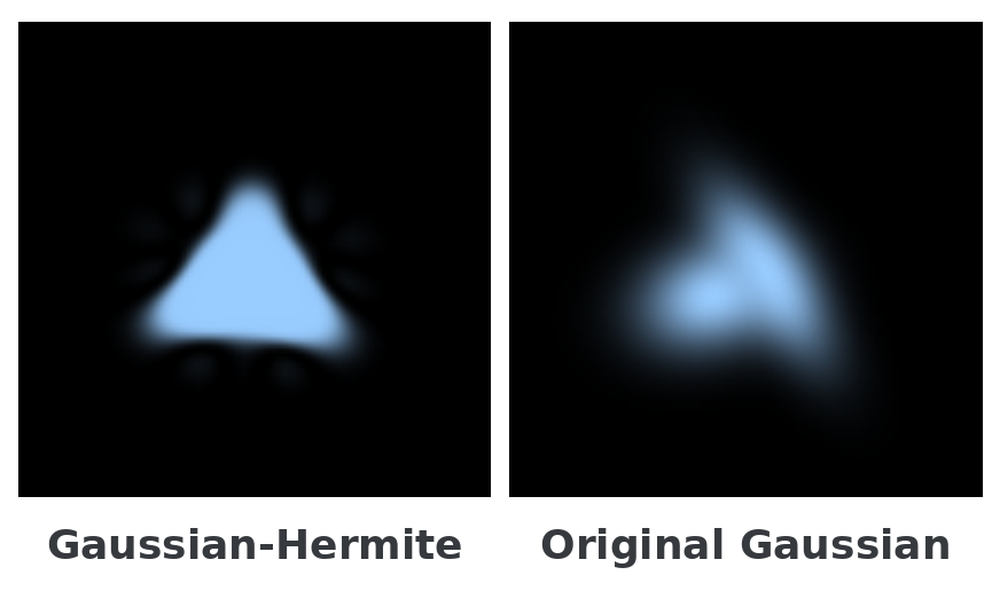
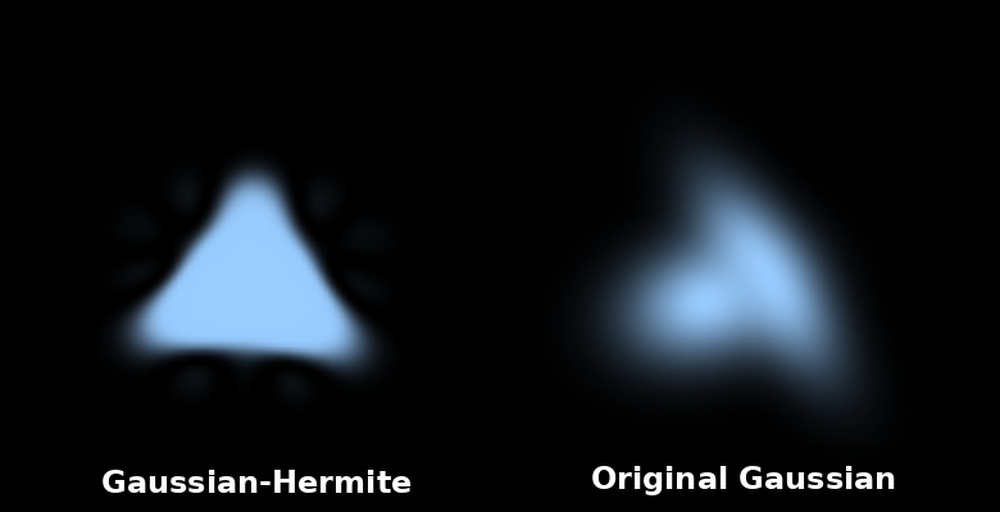
2DGH: 2:1 thumb, trim results, add (m,n) basis explorer
- Homepage thumbnail rebuilt as a strict 2:1 composition (two 380x380
  square panels from figs/toy.pdf with the dark side margins cropped in,
  white "Gaussian-Hermite" / "Original Gaussian" labels overlaid at the
  bottom of each panel).
- Results section narrowed to the two most informative figures
  (MipNeRF360 NVS, Detail-set NVS + error); normal and DTU dropped.
- New basis-pattern explorer after the Triangle Fitting Toy:
  square canvas + slim diverging colorbar (deep petrol -> cream -> brick
  rust, matched to the site palette), two integer sliders for m and n,
  live ψ_{m,n}(x,y) = H_m(x)·H_n(y)·exp(-(x²+y²)/2). Per-pattern
  normalisation keeps the colour scale at -1...+1.

diff --git a/2dgh/index.html b/2dgh/index.html
@@ -19,6 +19,78 @@ sitemap: false
     .teaser__media { aspect-ratio: 1878 / 837; background:#f4efe9; border-radius:8px; overflow:hidden; }
     .teaser__media img { width:100%; height:100%; object-fit: contain; }
     .figgrid img { background:#fff; }
+
+    /* ---- (m,n) basis pattern explorer ----------------------------------- */
+    .basis {
+      max-width: 50rem; margin: 0 auto;
+      background: #fff; border: 1px solid rgba(75,51,38,0.10);
+      border-radius: 12px; padding: 1.4rem 1.6rem 1.6rem;
+      box-shadow: 0 2px 12px rgba(75,51,38,0.05);
+    }
+    .basis__title { font-family: var(--font-serif); font-weight:700; font-size:1.05rem; margin-bottom:0.25rem; }
+    .basis__formula {
+      font-size: 0.9rem; color: var(--color-muted); margin-bottom: 1rem;
+      font-style: italic;
+    }
+    .basis__stage {
+      display: grid;
+      grid-template-columns: 1fr 56px;
+      gap: 16px;
+      align-items: stretch;
+    }
+    .basis__canvas-wrap {
+      position: relative;
+      aspect-ratio: 1 / 1;
+      background: #111;
+      border-radius: 6px;
+      overflow: hidden;
+      box-shadow: inset 0 0 0 1px rgba(75,51,38,0.10);
+    }
+    .basis__canvas-wrap canvas { width:100%; height:100%; display:block; image-rendering: auto; }
+    .basis__axis-label {
+      position: absolute; left: 8px; top: 8px;
+      font-family: var(--font-serif); font-style: italic;
+      font-size: 0.95rem; color: rgba(255,255,255,0.85);
+      letter-spacing: 0.02em;
+    }
+    .basis__cbar {
+      position: relative;
+      display: grid; grid-template-rows: 1fr;
+    }
+    .basis__cbar canvas {
+      width: 22px; height: 100%;
+      border-radius: 4px;
+      box-shadow: inset 0 0 0 1px rgba(75,51,38,0.12);
+      display: block;
+    }
+    .basis__cbar-ticks {
+      position: absolute; left: 30px; top: 0; bottom: 0;
+      display: flex; flex-direction: column; justify-content: space-between;
+      font-family: var(--font-mono); font-size: 0.72rem; color: var(--color-muted);
+      pointer-events: none;
+    }
+    .basis__cbar-ticks span { line-height: 1; }
+    .basis__controls {
+      display: grid; grid-template-columns: 1fr 1fr; gap: 1rem 1.5rem;
+      margin-top: 1.1rem; align-items: center; font-size: 0.92rem;
+    }
+    .basis__controls .ctl { display: flex; align-items: center; gap: 0.6rem; }
+    .basis__controls .ctl span.lbl {
+      font-family: var(--font-serif); font-style: italic;
+      color: var(--color-heading); font-size: 1rem; width: 1.4rem;
+    }
+    .basis__controls .ctl span.val {
+      font-family: var(--font-mono); color: var(--color-accent);
+      font-weight: 700; min-width: 1rem;
+    }
+    .basis__controls input[type=range] { flex: 1; accent-color: var(--color-accent); }
+    .basis__caption {
+      margin-top: 0.9rem; font-size: 0.85rem; color: var(--color-muted);
+      text-align: center; font-style: italic;
+    }
+    @media (max-width: 560px) {
+      .basis__controls { grid-template-columns: 1fr; }
+    }
   </style>
 </head>
 <body>
@@ -123,6 +195,54 @@ sitemap: false
           </figcaption>
         </figure>
       </div>
+
+      <div class="prose" style="margin: 2.5rem auto 1.4rem;">
+        <p>
+          Where does that extra representational power come from? The Gaussian-Hermite primitive is
+          the Gaussian multiplied by a 2D Hermite polynomial of rank <em>(m,&nbsp;n)</em>. Slide
+          <em>m</em> and <em>n</em> below to watch the basis pattern unfold &mdash; new lobes appear
+          along each axis, alternating in sign.
+        </p>
+      </div>
+
+      <div class="basis" id="basis">
+        <div class="basis__title">Gaussian-Hermite basis  <span style="color:var(--color-muted);font-weight:400;">&nbsp;ψ<sub>m,n</sub>(x,&thinsp;y)</span></div>
+        <div class="basis__formula">ψ<sub>m,n</sub>(x,&thinsp;y) &nbsp;=&nbsp; H<sub>m</sub>(x) &middot; H<sub>n</sub>(y) &middot; exp(−(x² + y²) / 2)</div>
+
+        <div class="basis__stage">
+          <div class="basis__canvas-wrap">
+            <canvas id="basisCanvas" width="384" height="384"></canvas>
+            <span class="basis__axis-label" id="basisLabel">ψ<sub>0,0</sub></span>
+          </div>
+          <div class="basis__cbar">
+            <canvas id="basisCbar" width="22" height="384"></canvas>
+            <div class="basis__cbar-ticks">
+              <span>+1</span>
+              <span>0</span>
+              <span>−1</span>
+            </div>
+          </div>
+        </div>
+
+        <div class="basis__controls">
+          <label class="ctl">
+            <span class="lbl">m</span>
+            <input type="range" id="mRng" min="0" max="5" step="1" value="0">
+            <span class="val" id="mVal">0</span>
+          </label>
+          <label class="ctl">
+            <span class="lbl">n</span>
+            <input type="range" id="nRng" min="0" max="5" step="1" value="0">
+            <span class="val" id="nVal">0</span>
+          </label>
+        </div>
+
+        <p class="basis__caption">
+          Values are normalised per pattern so the colour scale always spans &minus;1 &hellip; &plus;1.
+          Rank&nbsp;(0,&thinsp;0) recovers the plain Gaussian; higher rank adds oscillating
+          lobes that let the primitive carve sharper, more anisotropic shapes.
+        </p>
+      </div>
     </section>
 
     <section id="results" class="sect sect--frag-inner">
@@ -152,22 +272,6 @@ sitemap: false
             per-pixel error against ground truth. 2DGH has noticeably less residual energy on edges.
           </figcaption>
         </figure>
-        <figure>
-          <img src="{{ '/2dgh/static/images/normal.png' | relative_url }}"
-               alt="Normal-map comparison on MipNeRF360 bonsai and garden">
-          <figcaption>
-            Surface normals on <em>bonsai</em> and <em>garden</em> &mdash; sharper edges translate to
-            cleaner normal maps without rolling-off the silhouette.
-          </figcaption>
-        </figure>
-        <figure>
-          <img src="{{ '/2dgh/static/images/dtu.png' | relative_url }}"
-               alt="DTU geometry reconstruction error">
-          <figcaption>
-            DTU geometry reconstruction error (lower is better) &mdash; consistent improvements on
-            thin-structure regions across multiple scans.
-          </figcaption>
-        </figure>
       </div>
     </section>
 
@@ -189,6 +293,128 @@ sitemap: false
   <footer class="site-footer">
     <p>&copy; 2025 Ruihan Yu &nbsp;&middot;&nbsp; <a href="{{ '/' | relative_url }}">Back to homepage</a></p>
   </footer>
+
+  <script>
+    (function () {
+      // ---- Physicists' Hermite polynomials via recurrence ----------------
+      function H(n, x) {
+        if (n === 0) return 1;
+        if (n === 1) return 2 * x;
+        let h0 = 1, h1 = 2 * x;
+        for (let k = 1; k < n; k++) {
+          const h2 = 2 * x * h1 - 2 * k * h0;
+          h0 = h1; h1 = h2;
+        }
+        return h1;
+      }
+      function psi(m, n, x, y) {
+        return H(m, x) * H(n, y) * Math.exp(-(x * x + y * y) / 2);
+      }
+
+      // ---- Diverging colormap: deep teal -> cream -> warm rust ----------
+      // Anchors hand-tuned for a calm, paper-figure palette (perceptual feel,
+      // not perceptually uniform — we lean on the brand palette).
+      const STOPS = [
+        { t: -1.00, c: [ 31,  61,  93] },  // deep petrol
+        { t: -0.65, c: [ 79, 122, 156] },
+        { t: -0.30, c: [173, 197, 213] },
+        { t:  0.00, c: [248, 244, 236] },  // cream (matches site frag-l)
+        { t:  0.30, c: [221, 178, 138] },
+        { t:  0.65, c: [180, 102,  64] },
+        { t:  1.00, c: [126,  50,  38] },  // brick rust
+      ];
+      function cmap(t) {
+        if (t <= STOPS[0].t) return STOPS[0].c;
+        for (let i = 0; i < STOPS.length - 1; i++) {
+          const a = STOPS[i], b = STOPS[i + 1];
+          if (t <= b.t) {
+            const u = (t - a.t) / (b.t - a.t);
+            return [
+              Math.round(a.c[0] * (1 - u) + b.c[0] * u),
+              Math.round(a.c[1] * (1 - u) + b.c[1] * u),
+              Math.round(a.c[2] * (1 - u) + b.c[2] * u),
+            ];
+          }
+        }
+        return STOPS[STOPS.length - 1].c;
+      }
+
+      // ---- DOM refs ------------------------------------------------------
+      const canvas = document.getElementById('basisCanvas');
+      const cbar   = document.getElementById('basisCbar');
+      const mRng   = document.getElementById('mRng');
+      const nRng   = document.getElementById('nRng');
+      const mVal   = document.getElementById('mVal');
+      const nVal   = document.getElementById('nVal');
+      const label  = document.getElementById('basisLabel');
+
+      // ---- Render the colorbar once -------------------------------------
+      (function drawCbar() {
+        const ctx = cbar.getContext('2d');
+        const W = cbar.width, Hb = cbar.height;
+        const img = ctx.createImageData(W, Hb);
+        for (let j = 0; j < Hb; j++) {
+          // Top = +1, bottom = -1
+          const t = 1 - 2 * (j / (Hb - 1));
+          const [r, g, b] = cmap(t);
+          for (let i = 0; i < W; i++) {
+            const k = 4 * (j * W + i);
+            img.data[k    ] = r;
+            img.data[k + 1] = g;
+            img.data[k + 2] = b;
+            img.data[k + 3] = 255;
+          }
+        }
+        ctx.putImageData(img, 0, 0);
+      })();
+
+      // ---- Render the basis pattern -------------------------------------
+      function drawPattern() {
+        const m = parseInt(mRng.value, 10);
+        const n = parseInt(nRng.value, 10);
+        mVal.textContent = m;
+        nVal.textContent = n;
+        label.innerHTML = 'ψ<sub>' + m + ',' + n + '</sub>';
+
+        const ctx = canvas.getContext('2d');
+        const W = canvas.width, Hc = canvas.height;
+        const img = ctx.createImageData(W, Hc);
+
+        // Sample on [-range, +range] x [-range, +range].  Slight stretch for
+        // higher orders so the outer lobes stay inside the frame.
+        const range = 3.0 + 0.18 * Math.max(m, n);
+
+        const vals = new Float32Array(W * Hc);
+        let vmax = 0;
+        for (let j = 0; j < Hc; j++) {
+          const y = -range + 2 * range * j / (Hc - 1);
+          for (let i = 0; i < W; i++) {
+            const x = -range + 2 * range * i / (W - 1);
+            const v = psi(m, n, x, y);
+            vals[j * W + i] = v;
+            const a = Math.abs(v);
+            if (a > vmax) vmax = a;
+          }
+        }
+        if (vmax < 1e-12) vmax = 1;
+
+        for (let k = 0; k < W * Hc; k++) {
+          const t = Math.max(-1, Math.min(1, vals[k] / vmax));
+          const [r, g, b] = cmap(t);
+          const o = 4 * k;
+          img.data[o    ] = r;
+          img.data[o + 1] = g;
+          img.data[o + 2] = b;
+          img.data[o + 3] = 255;
+        }
+        ctx.putImageData(img, 0, 0);
+      }
+
+      mRng.addEventListener('input', drawPattern);
+      nRng.addEventListener('input', drawPattern);
+      drawPattern();
+    })();
+  </script>
 
 </body>
 </html>
